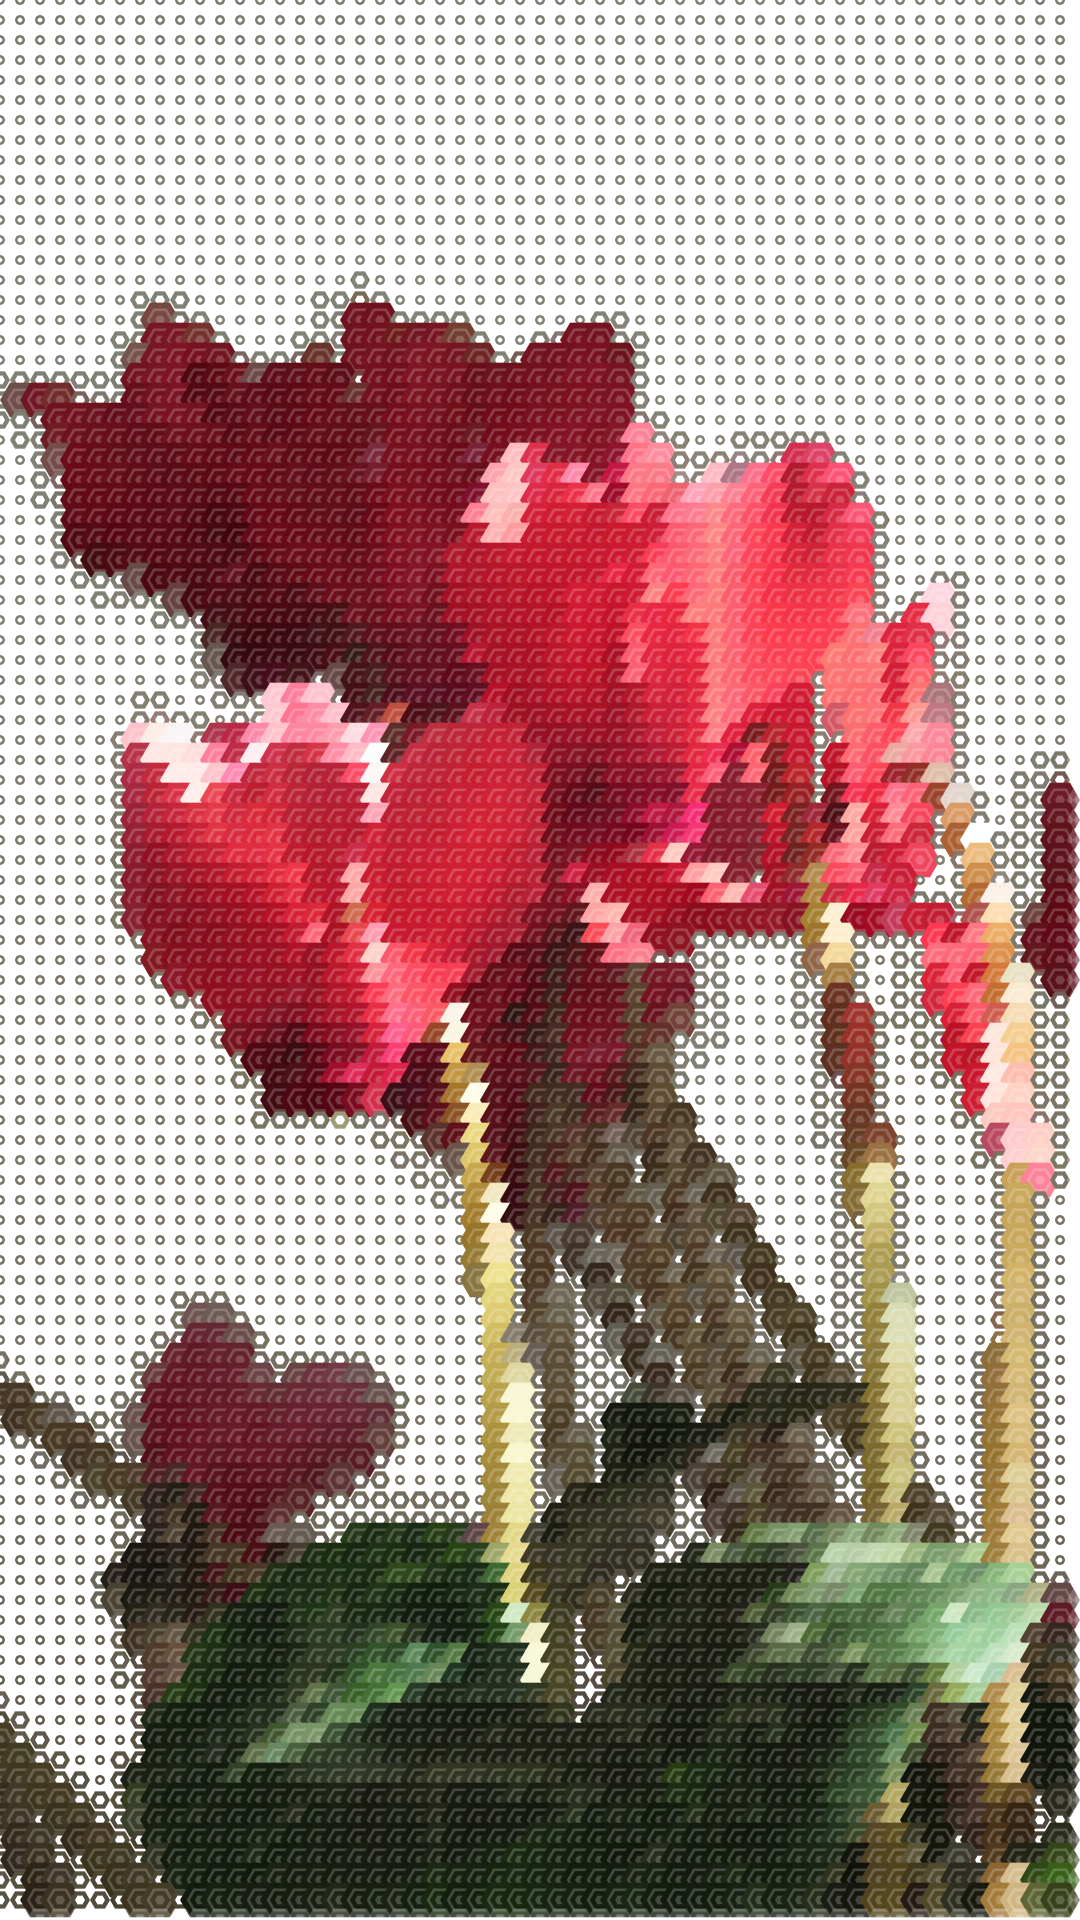
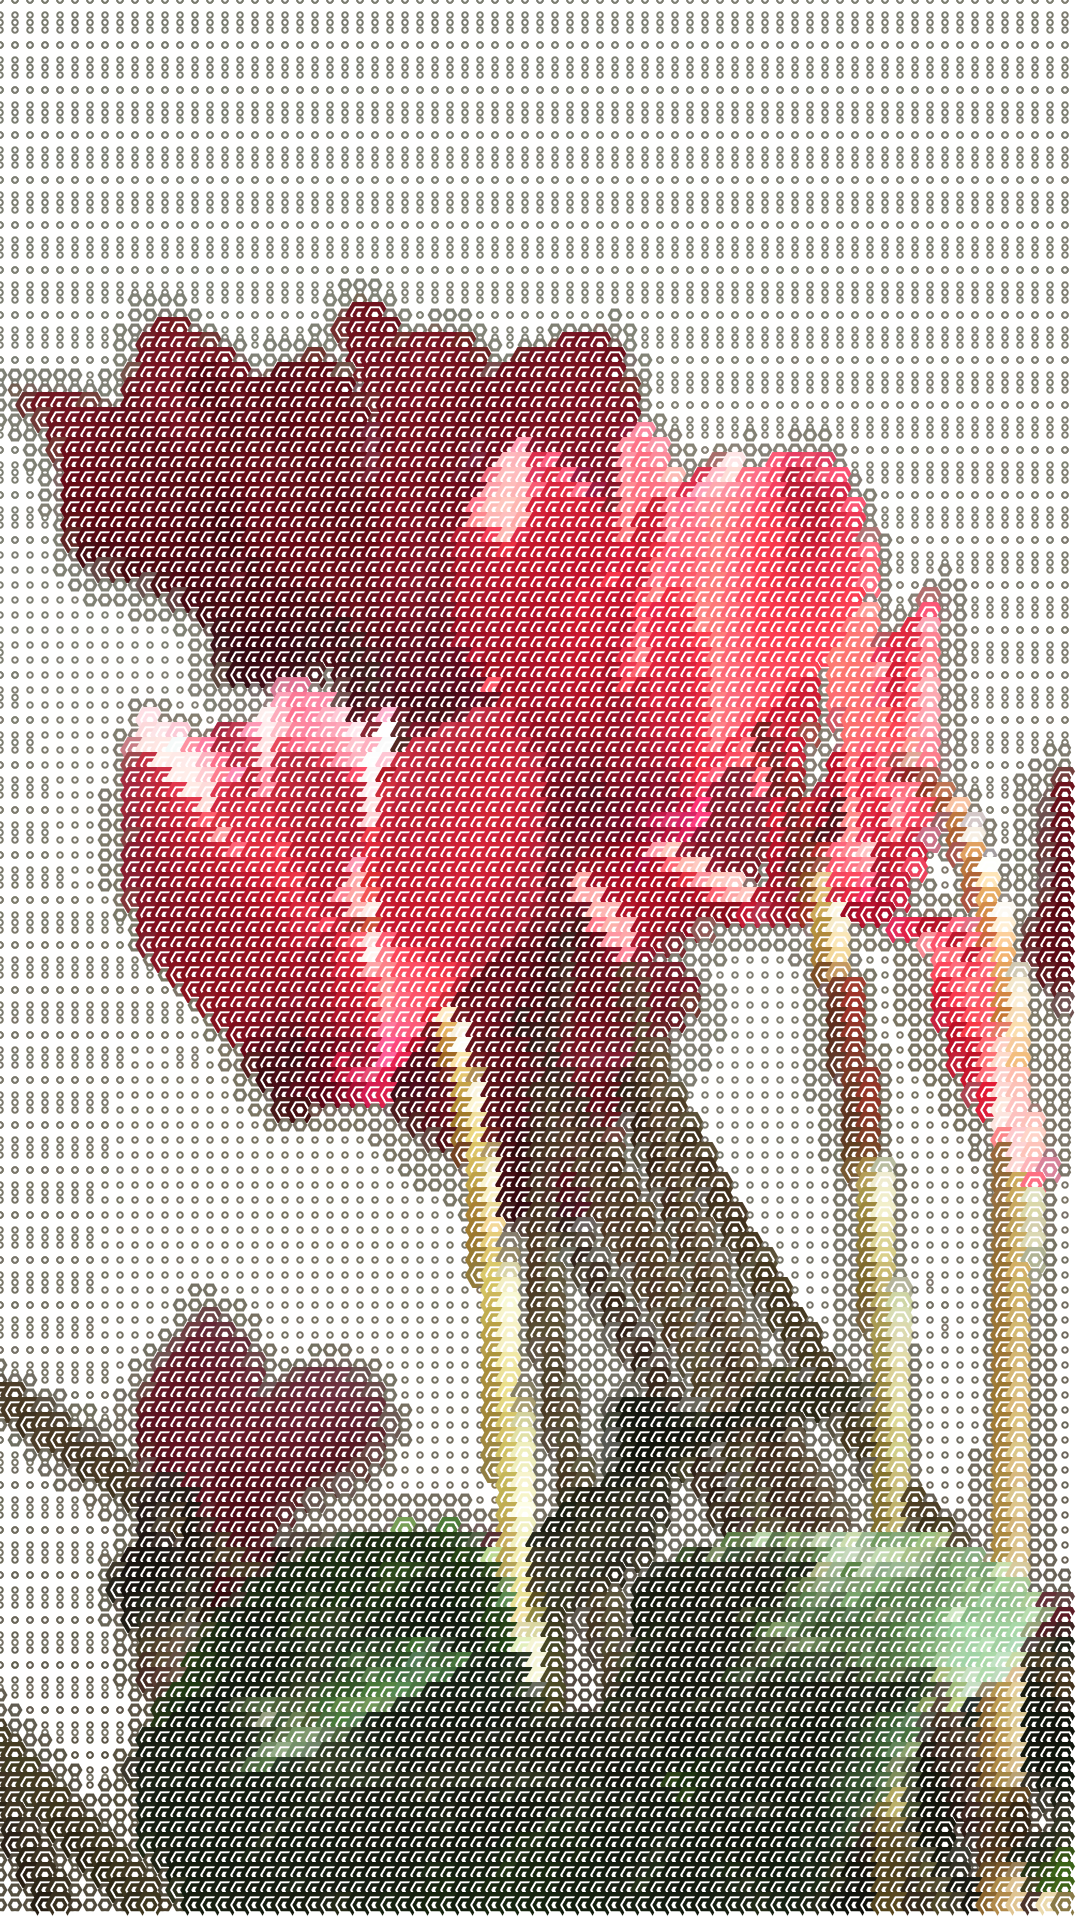
background pattern

diff --git a/sketch.js b/sketch.js
@@ -3,9 +3,9 @@ let maskImg=null;
 let renderCounter=0; // Rename to row counter
 
 function preload() {
-  sourceImg = loadImage("input_2.jpg");
-  maskImg = loadImage("mask_2.png");
-  maskImgB = loadImage("mask_2b.png");
+  sourceImg = loadImage("input_1.jpg");
+  maskImg = loadImage("mask_1.png");
+  maskImgB = loadImage("mask_1b.png");
 }
 
 function setup () {
@@ -20,7 +20,7 @@ function setup () {
   maskImgB.loadPixels();
 }
 
-const pointSize = 20;
+const pointSize = 15;
 
 function draw () {
   for(let i = 0; i < 1080 / pointSize * 2; i++) {
@@ -33,16 +33,16 @@ function draw () {
     fill(pix);
     if(mask[0] < 128) {
       polygon(x, y, pointSize, 6);
-      fill(255, 255, 255, 50);
+      fill(255, 255, 255);
       polygon(x, y, pointSize/1.5, 6);
       fill(pix);
       polygon(x, y, pointSize/2, 6);
-      fill(255, 255, 255, 50);
+      fill(255, 255, 255);
       polygon(x, y, pointSize/3, 6);
       fill(pix);
       polygon(x, y, pointSize/3.5, 6);
       polygon(x, y, pointSize/2, 6);
-      fill(255, 255, 255, 50);
+      fill(255, 255, 255);
       polygon(x, y, pointSize/4, 6); 
     }
     else if(maskB[0] < 128) {
@@ -56,8 +56,13 @@ function draw () {
        ellipse(x, y, pointSize/2, pointSize/2);
        fill(255, 255, 255);
        ellipse(x, y, pointSize/4, pointSize/4);
+       fill(pix);
+       ellipse(x, y*1.5, pointSize/2, pointSize/2);
+           fill(255, 255, 255);
+       ellipse(x, y*1.5, pointSize/4, pointSize/4);
     }
   }
+
   renderCounter = renderCounter + 1;
   if(renderCounter > 1920/pointSize) {
     console.log("Done!")

diff --git a/README.md b/README.md
@@ -1,4 +1,6 @@
 ## Creative Coding 2: Custom Pixel
-I added a second mask to make an outline around the first mask. In the mask I made hexagons with the same pattern as the circles but a little bigger. This is because previously the there was no connection between the circles and the hexagons.
+For this experiment I wanted to make the background more interesting. I added an extra ellipse to the background and shifted it up by 1.5. This makes a pattern which I like more than the single rows of ellipses.
 
-I also changed the hexagons colouring so instead of having it get continuously lighter,  it gets lighter then goes back to the original colour and then gets lighter again. 
+I also made the transparent hexagons white so they would match the background. I don't like this as much as the semitransparent hexagons because the flowers don't stand out as much as they did.
+
+I tried using the smartmask on another image of a flower but it didn't work well. It did I creates a large area around the flowers instead of masking the actual flowers even though the background was white. This isn't helpful to me so I don't think I'll be using it.
